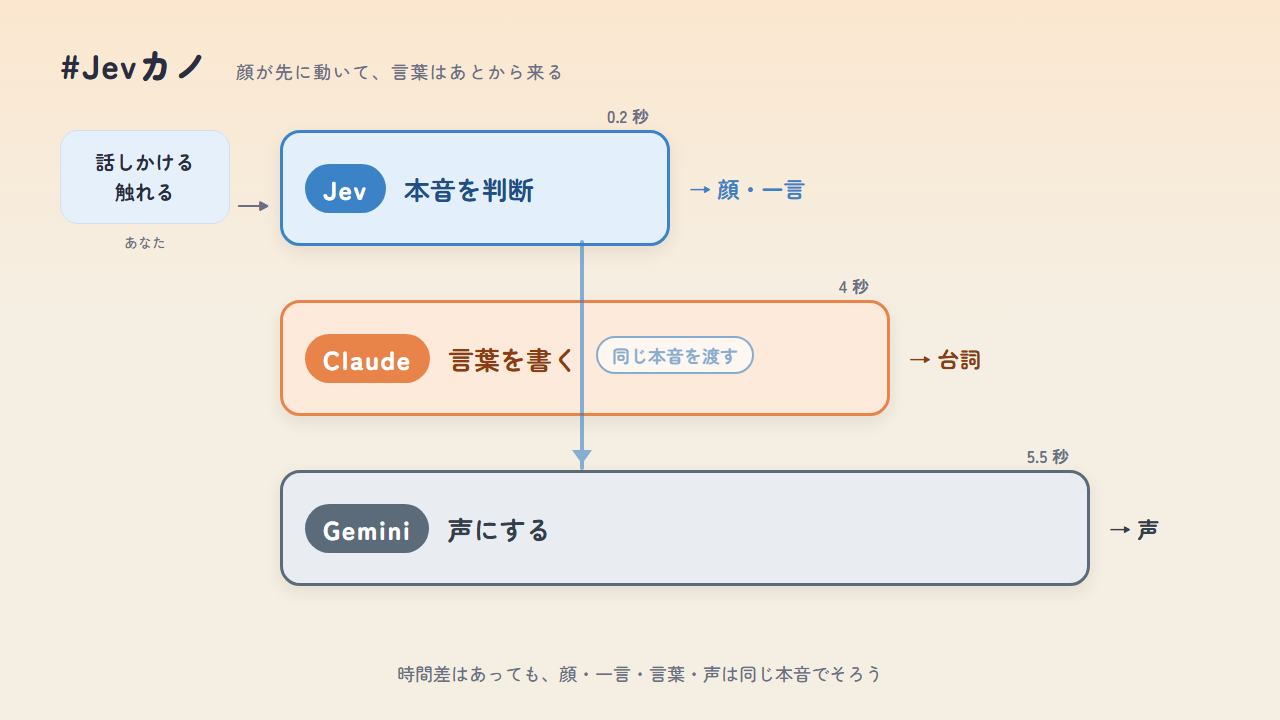
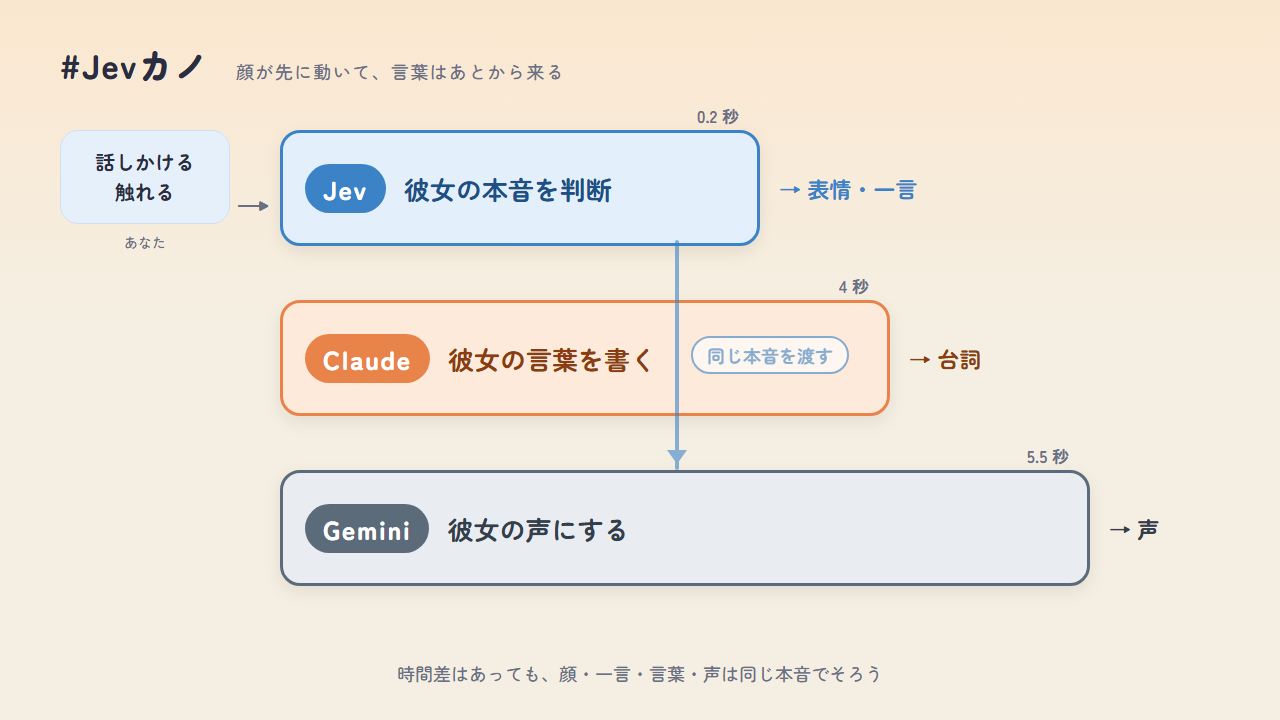
docs: 仕組みの図に主語（彼女の本音・言葉・声）
Assisted-by: Claude Code

diff --git a/making/diagram/architecture.html b/making/diagram/architecture.html
@@ -24,7 +24,7 @@
   .tts { background:var(--ttsL); border:3px solid var(--tts); } .tts .who { background:var(--tts); } .tts .what { color:#33404c; }
   .result { position:absolute; left:100%; margin-left:22px; top:0; height:110px; display:flex; align-items:center; font-size:22px; font-weight:700; color:var(--jev); white-space:nowrap; }
   /* 本音の矢印 */
-  .honne { position:absolute; left:calc(280px + 300px); width:4px; background:var(--jev); opacity:.6; border-radius:2px; }
+  .honne { position:absolute; left:calc(280px + 395px); width:4px; background:var(--jev); opacity:.6; border-radius:2px; }
   .honne::after { content:""; position:absolute; left:-8px; bottom:-4px; border:10px solid transparent; border-top:14px solid var(--jev); }
   .honne .lbl { position:absolute; left:16px; top:50%; transform:translateY(-50%); background:#fff; border:2px solid var(--jev); color:var(--jev); border-radius:999px; padding:4px 14px; font-size:18px; font-weight:700; white-space:nowrap; }
   .arrow { position:absolute; left:236px; top:180px; font-size:34px; color:var(--sub); }
@@ -42,17 +42,17 @@
   <div class="arrow">→</div>
 
   <div class="row" style="top:130px">
-    <div class="box jev" style="left:0; width:340px"><span class="t">0.2 秒</span><span class="who">Jev</span><span class="what">本音を判断</span>
-      <div class="result">→ 顔・一言</div></div>
+    <div class="box jev" style="left:0; width:430px"><span class="t">0.2 秒</span><span class="who">Jev</span><span class="what">彼女の本音を判断</span>
+      <div class="result">→ 表情・一言</div></div>
   </div>
 
   <div class="row" style="top:300px">
-    <div class="box llm" style="left:0; width:560px"><span class="t">4 秒</span><span class="who">Claude</span><span class="what">言葉を書く</span>
+    <div class="box llm" style="left:0; width:560px"><span class="t">4 秒</span><span class="who">Claude</span><span class="what">彼女の言葉を書く</span>
       <div class="result" style="color:#8a3c12">→ 台詞</div></div>
   </div>
 
   <div class="row" style="top:470px">
-    <div class="box tts" style="left:0; width:760px"><span class="t">5.5 秒</span><span class="who">Gemini</span><span class="what">声にする</span>
+    <div class="box tts" style="left:0; width:760px"><span class="t">5.5 秒</span><span class="who">Gemini</span><span class="what">彼女の声にする</span>
       <div class="result" style="color:#33404c">→ 声</div></div>
   </div>
 
